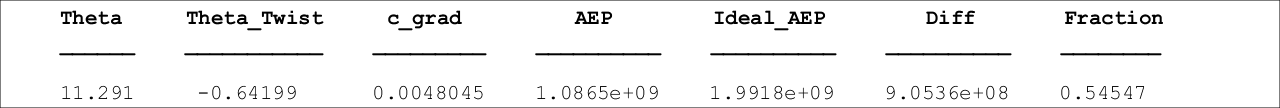
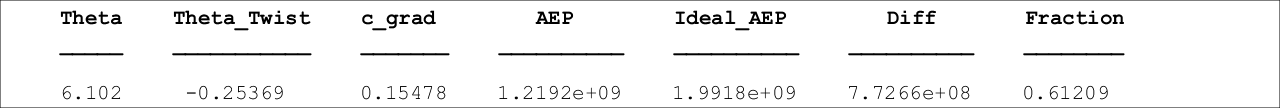
Experiment with starting point.

diff --git a/main.m b/main.m
@@ -36,7 +36,7 @@ etol=0.01;
 [logid, logpath]=createlog('Part B Optimiser');
 tic;
 
-maxiters=40;
+maxiters=15;
 progressbar('Calculating Power', 'Solving Rotor', 'Finding Local Induced Flow', 'Optimisation');
 %progressbar([],[],[], (1/maxiters));
 opts = optimset('fminsearch');
@@ -45,7 +45,7 @@ opts.TolX = 0.0001; %Tolerance on the variation in the parameters
 opts.TolFun = 0.001; %Tolerance on the error
 opts.OutputFcn = @optMonitor; %Tolerance on the error
 opts.MaxIter = maxiters-1; %Max number of iterations
-[x, diff, exitflag] = fminsearchbnd(@aepCost, [deg2rad(12) deg2rad(-0.4) 0], [deg2rad(4) deg2rad(-2) 0], [deg2rad(20) deg2rad(-0.1) 0.9], opts);
+[x, diff, exitflag] = fminsearchbnd(@aepCost, [deg2rad(5) deg2rad(-0.8) 0.2], [deg2rad(2) deg2rad(-2) 0], [deg2rad(20) deg2rad(-0.1) 0.9], opts);
 xdeg=[rad2deg(x(1)),rad2deg(x(2)),x(3)];
 if exitflag==1
     disp('Optimiser SOLVED.');
